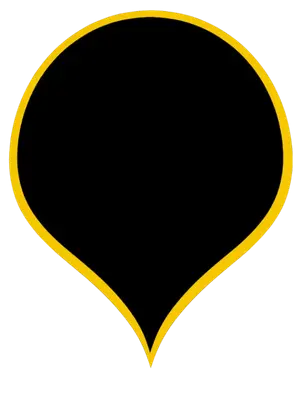
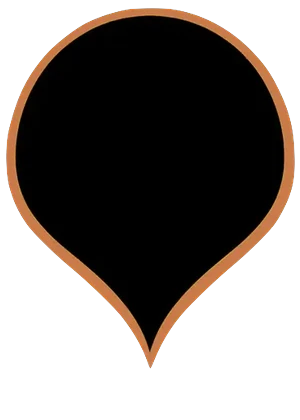
Add support for cache pins alongside regular pins
Introduce a separate cache pin type with distinct icon sets and UI elements for map pins.
Refactor icons.ts to handle glyph pins and cache pins distinctly, including a dedicated cache pin icon library.
Update SnakeRuler.svelte to allow saving points as either a regular pin or a cache pin, reflecting different pin kinds in UI and callbacks.
Remove old rainbow-colored pins and replace them with themed cache pins representing various cache types.
This change enables clearer differentiation between user map pins and cache pins, improving UI clarity and functionality.

Changed region(s): [[0.0, 0.0, 0.99, 0.8976]]

diff --git a/lib/shared/icons.ts b/lib/shared/icons.ts
@@ -27,7 +27,6 @@ export function pinLibraryUrl(file: string): string {
 export type PinKey =
     | "pin"
     | "cones"
-    | "cache"
     | "truck"
     | "bear"
     | "heli"
@@ -39,13 +38,21 @@ export type PinKey =
     | "home"
     | "poop"
     | "tree"
-    | "red"
-    | "orange"
-    | "yellow"
-    | "green"
-    | "blue"
-    | "purple"
-    | "magenta";
+    | "classicCache"
+    | "rainbowCache"
+    | "zebraCache"
+    | "plaidCache"
+    | "tigerCache"
+    | "beeCache"
+    | "watermelonCache"
+    | "spiderCache"
+    | "redCache"
+    | "orangeCache"
+    | "yellowCache"
+    | "greenCache"
+    | "blueCache"
+    | "purpleCache"
+    | "pinkCache";
 
 export type IconName =
     | PinKey
@@ -70,17 +77,16 @@ export type IconName =
 export type IconRow = {
     name: IconName;
     path: string;
-    /** Present only on a user-droppable map pin: its library section. */
-    pin?: "glyph" | "rainbow";
+    /** Present only on a user-droppable map pin: its library section. A cachePin is land, not a glyph pin. */
+    pin?: "glyph" | "cachePin";
 };
 
-export type PinRow = IconRow & { name: PinKey; pin: "glyph" | "rainbow" };
+export type PinRow = IconRow & { name: PinKey; pin: "glyph" | "cachePin" };
 
 export const ICONS: readonly IconRow[] = [
-    // Row order = display order. "pin" has no library section: it is what a
-    // fresh drop wears, and a slot in the library would only repeat it.
+    // Row order = display order; each section's first row is what a fresh drop wears.
+    { name: "pin", pin: "glyph", path: pinLibraryUrl("pin_default_sm.webp") },
     { name: "truck", pin: "glyph", path: pinLibraryUrl("pin_truck_sm.webp") },
-    { name: "cache", pin: "glyph", path: pinLibraryUrl("pin_cache_sm.webp") },
     { name: "atv", pin: "glyph", path: pinLibraryUrl("pin_atv_sm.webp") },
     { name: "bear", pin: "glyph", path: pinLibraryUrl("pin_bear_sm.webp") },
     {
@@ -113,34 +119,21 @@ export const ICONS: readonly IconRow[] = [
     },
     { name: "tree", pin: "glyph", path: pinLibraryUrl("pin_tree_sm.webp") },
     { name: "cones", pin: "glyph", path: pinLibraryUrl("pin_cone_sm.webp") },
-    { name: "pin", path: pinLibraryUrl("pin_default_sm.webp") },
-    { name: "red", pin: "rainbow", path: pinLibraryUrl("1pin_red_sm.webp") },
-    {
-        name: "orange",
-        pin: "rainbow",
-        path: pinLibraryUrl("2pin_orange_sm.webp"),
-    },
-    {
-        name: "yellow",
-        pin: "rainbow",
-        path: pinLibraryUrl("3pin_yellow_sm.webp"),
-    },
-    {
-        name: "green",
-        pin: "rainbow",
-        path: pinLibraryUrl("4pin_green_sm.webp"),
-    },
-    { name: "blue", pin: "rainbow", path: pinLibraryUrl("5pin_blue_sm.webp") },
-    {
-        name: "purple",
-        pin: "rainbow",
-        path: pinLibraryUrl("6pin_purple_sm.webp"),
-    },
-    {
-        name: "magenta",
-        pin: "rainbow",
-        path: pinLibraryUrl("7pin_magenta_sm.webp"),
-    },
+    { name: "classicCache", pin: "cachePin", path: pinLibraryUrl("pin_cache_sm.webp") },
+    { name: "redCache", pin: "cachePin", path: pinLibraryUrl("pin_cache_red_sm.webp") },
+    { name: "orangeCache", pin: "cachePin", path: pinLibraryUrl("pin_cache_orange_sm.webp") },
+    { name: "yellowCache", pin: "cachePin", path: pinLibraryUrl("pin_cache_yellow_sm.webp") },
+    { name: "greenCache", pin: "cachePin", path: pinLibraryUrl("pin_cache_green_sm.webp") },
+    { name: "blueCache", pin: "cachePin", path: pinLibraryUrl("pin_cache_blue_sm.webp") },
+    { name: "purpleCache", pin: "cachePin", path: pinLibraryUrl("pin_cache_purple_sm.webp") },
+    { name: "pinkCache", pin: "cachePin", path: pinLibraryUrl("pin_cache_pink_sm.webp") },
+    { name: "rainbowCache", pin: "cachePin", path: pinLibraryUrl("pin_cache_rainbow_sm.webp") },
+    { name: "zebraCache", pin: "cachePin", path: pinLibraryUrl("pin_cache_zebra_sm.webp") },
+    { name: "plaidCache", pin: "cachePin", path: pinLibraryUrl("pin_cache_plaid_sm.webp") },
+    { name: "tigerCache", pin: "cachePin", path: pinLibraryUrl("pin_cache_tiger_sm.webp") },
+    { name: "beeCache", pin: "cachePin", path: pinLibraryUrl("pin_cache_bee_sm.webp") },
+    { name: "watermelonCache", pin: "cachePin", path: pinLibraryUrl("pin_cache_watermelon_sm.webp") },
+    { name: "spiderCache", pin: "cachePin", path: pinLibraryUrl("pin_cache_spider_sm.webp") },
     { name: "map", path: `${DIR}/map_icon_v2_sm.webp` },
     // Deliberately unlike the map/poly/line outlines: a block is administrative, not drawn.
     { name: "block", path: `${DIR}/block_icon_sm.webp` },
@@ -182,8 +175,8 @@ export const GLYPH_PINS: readonly PinRow[] = PIN_ROWS.filter(
     (r) => r.pin === "glyph",
 );
 
-export const RAINBOW_PINS: readonly PinRow[] = PIN_ROWS.filter(
-    (r) => r.pin === "rainbow",
+export const CACHE_PINS: readonly PinRow[] = PIN_ROWS.filter(
+    (r) => r.pin === "cachePin",
 );
 
 export const ALL_PINS: readonly PinRow[] = PIN_ROWS;
@@ -191,11 +184,17 @@ export const ALL_PINS: readonly PinRow[] = PIN_ROWS;
 /** The pin a feature carries before the user deliberately picks one. */
 export const DEFAULT_PIN_KEY: PinKey = "pin";
 
-const PIN_SET: ReadonlySet<string> = new Set([DEFAULT_PIN_KEY, ...ALL_PINS.map((r) => r.name)]);
+const PIN_SET: ReadonlySet<string> = new Set(ALL_PINS.map((r) => r.name));
+const CACHE_PIN_SET: ReadonlySet<string> = new Set(CACHE_PINS.map((r) => r.name));
 
 /** Parse an untrusted string (KML ExtendedData, envelope field, deep-link param) into a PinKey, or null if it isn't one. */
 export function parsePinKey(raw: unknown): PinKey | null {
     return typeof raw === "string" && PIN_SET.has(raw) ? (raw as PinKey) : null;
+}
+
+/** A cache pin is land: it takes contacts and a block, a glyph pin takes neither. */
+export function isCachePinKey(raw: unknown): boolean {
+    return typeof raw === "string" && CACHE_PIN_SET.has(raw);
 }
 
 // pinIcon is an open namespace (emoji:<char>, plot:<n>): never string-match one inline — ask this module, or its readers drift apart.

diff --git a/lib/mapUi/SnakeRuler.svelte b/lib/mapUi/SnakeRuler.svelte
@@ -50,7 +50,7 @@ let {
         share: boolean,
         format?: MapShareFormat,
     ) => void;
-    onSavePoint?: ((lng: number, lat: number) => void) | undefined;
+    onSavePoint?: ((lng: number, lat: number, kind: "pin" | "cachePin") => void) | undefined;
     /** `atSelf` = seed snapped onto the blue dot (proof-of-presence); `plusCode` = snapped grid dot, null if dropped free. */
     onPlot?:
         | ((
@@ -600,7 +600,7 @@ $effect(() => {
             // Deferred so the host's own map-click handler can't instantly clear the fresh pin's selection.
             const [lng, lat] = pt;
             queueMicrotask(() => {
-                onSavePoint?.(lng, lat);
+                onSavePoint?.(lng, lat, "pin");
                 discard();
             });
         } else if (armed === "line") {
@@ -624,6 +624,11 @@ $effect(() => {
                 isPolygon = true;
                 cursor = null;
                 render();
+                return;
+            }
+            // A lone node's menu has no ✕: tapping away is the dismiss, and the node grows by drag.
+            if (verts.length === 1) {
+                if (nearIdx === -1) discard();
                 return;
             }
             if (nearIdx !== -1 || !mayAddVertex(verts.length)) return;
@@ -863,10 +868,10 @@ async function sharePoint() {
         copyFailed = false;
     }, 1600);
 }
-function savePoint() {
+function savePoint(kind: "pin" | "cachePin") {
     const p = verts[0];
     if (!p) return;
-    onSavePoint?.(p[0], p[1]);
+    onSavePoint?.(p[0], p[1], kind);
     discard();
 }
 function dropPlot() {
@@ -938,7 +943,7 @@ $effect(() => {
 {#if active && popAnchor && (canFinish || singlePoint)}
     <div class="measure-pop" class:measure-grid={singlePoint} class:measure-at-self={singlePoint && seedAtSelf} class:measure-gliding={!!cursor} class:measure-below={popAnchor.below} style="left:{popAnchor.popX}px; top:{popAnchor.y}px;">
         {#if singlePoint}
-            <!-- 2×2 checkerboard: copy · ✕ / plot · save — Save under the right thumb. -->
+            <!-- 2×2: copy · plot / pin · cache. No ✕: a tap off the node dismisses. -->
             {#if seedAtSelf}
                 <div class="measure-self-badge">
                     <span class="measure-self-dot"></span>At your location
@@ -954,14 +959,17 @@ $effect(() => {
                     Copy
                 {/if}
             </button>
-            <button style="--x-white:url({xCloseWhite})" class="measure-btn measure-x" onclick={discard} title="Discard" aria-label="Discard measurement">&#x2715;</button>
             <button class="measure-btn measure-plot" class:at-self={seedAtSelf} onclick={dropPlot} title={seedAtSelf ? "Drop a plot AT your location (proof you were here)" : "Drop a Quality 704 plot here"}>
                 <img class="measure-plot-ic" src={iconPath("qualityWhite")} alt="" />
                 Plot
             </button>
-            <button class="measure-btn measure-save" onclick={savePoint} title="Save pin">
+            <button class="measure-btn measure-save" onclick={() => savePoint("pin")} title="Drop a pin">
                 <img class="measure-pin-ic" src={iconPath("pin")} alt="" />
-                Save
+                Pin
+            </button>
+            <button class="measure-btn measure-save" onclick={() => savePoint("cachePin")} title="Drop a cache">
+                <img class="measure-pin-ic" src={iconPath("classicCache")} alt="" />
+                Cache
             </button>
         {:else}
             <div class="measure-col">
